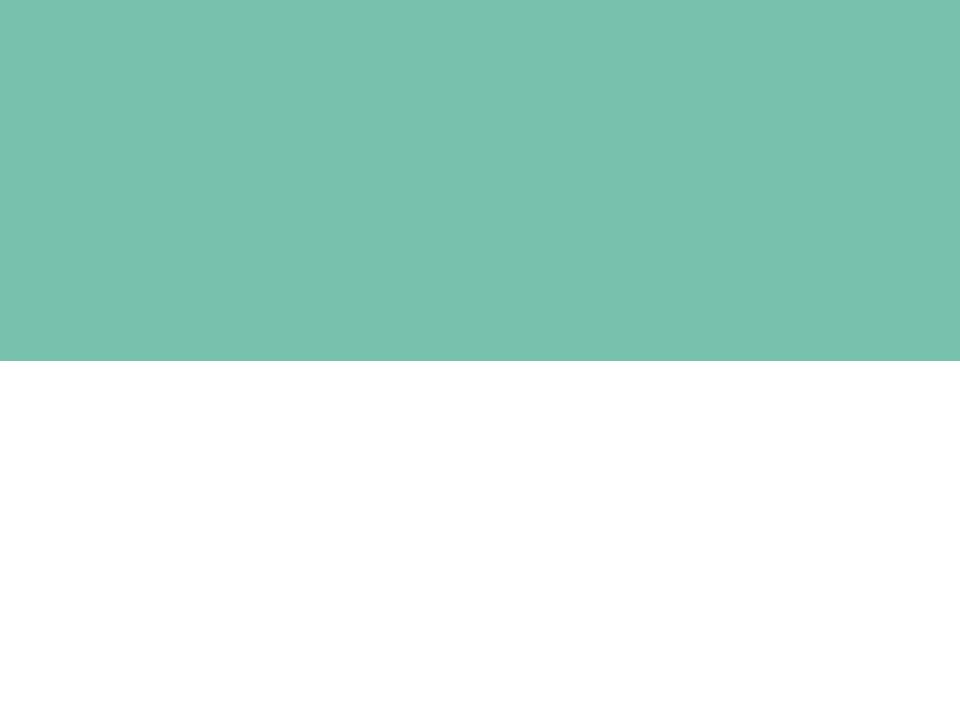
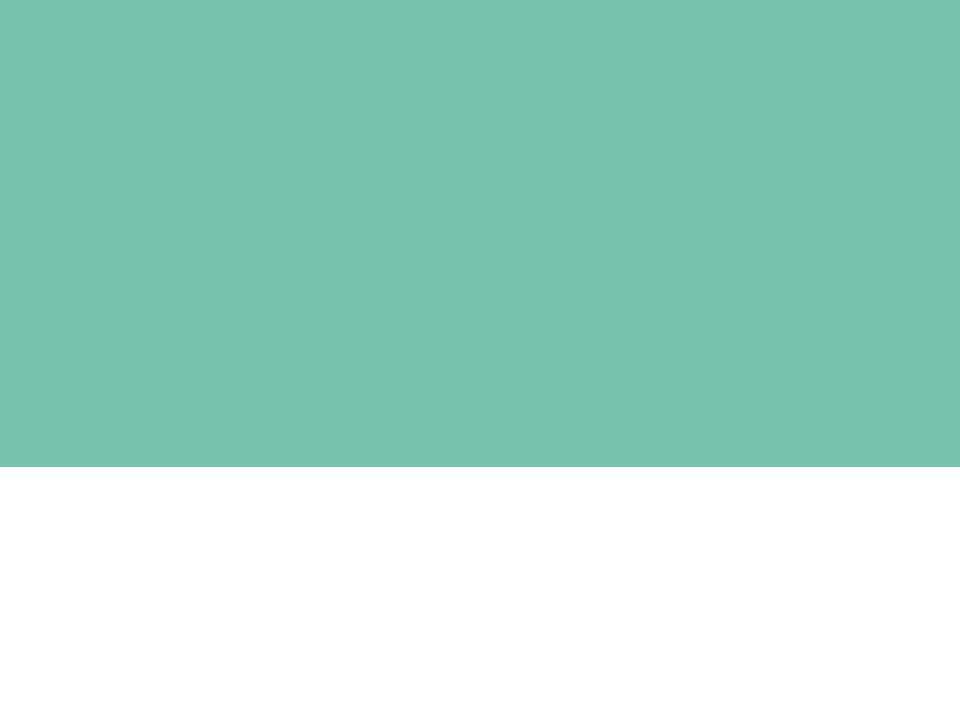
login page complete

Changed region(s): [[0.0, 0.4889, 1.0, 0.6722]]

diff --git a/src/frontend/containers/RegisterPage/index.jsx b/src/frontend/containers/RegisterPage/index.jsx
@@ -106,70 +106,79 @@ class RegisterPage extends React.Component {
     const { history } = this.props;
     return (
       <div id="register-page">
-        <h1>timbr Register Page!</h1>
-        <button
-          type="button"
-          onClick={() => history.push('/login')}
-        >
-          Already a user? Go to login
-        </button>
+        <h1 class="text-center pt-5 pb-2">timbr</h1>
+        <h3 class="text-center" style={{ color: 'white' }}><i>your plants need some love</i></h3>
+        <div className="row h-100 ml-4 mr-4">
+          <div className="col-sm-6 my-auto">
+            <div className="card h-100 border-primary">
+              <div className="card-body text-center">
+                <button
+                  type="button"
+                  onClick={() => history.push('/login')}
+                >
+                  Already a user? Go to login
+                </button>
 
-        <form
-          id="register-form"
-          onSubmit={this.handleRegister}
-        >
+                <form
+                  id="register-form"
+                  onSubmit={this.handleRegister}
+                >
 
-          <input
-            id="email"
-            type="text"
-            placeholder="Email"
-            onChange={(event) => { this.setState({ email: event.target.value }); }}
-          />
+                  <input
+                    id="email"
+                    type="text"
+                    placeholder="Email"
+                    onChange={(event) => { this.setState({ email: event.target.value }); }}
+                  />
 
-          <input
-            id="password"
-            type="password"
-            autoComplete="on"
-            placeholder="Password"
-            onChange={(event) => { this.setState({ password: event.target.value }); }}
-          />
+                  <input
+                    id="password"
+                    type="password"
+                    autoComplete="on"
+                    placeholder="Password"
+                    onChange={(event) => { this.setState({ password: event.target.value }); }}
+                  />
 
-          <input
-            id="username"
-            type="text"
-            placeholder="Username (Optional)"
-            onChange={(event) => { this.setState({ username: event.target.value }); }}
-          />
+                  <input
+                    id="username"
+                    type="text"
+                    placeholder="Username (Optional)"
+                    onChange={(event) => { this.setState({ username: event.target.value }); }}
+                  />
 
-          <button type="submit">Register</button>
-        </form>
-        <p id="error"> </p>
+                  <button type="submit">Register</button>
+                </form>
+                <p id="error"> </p>
 
-        <Modal id="can-oauth" show={this.state.isOauthModalOpen} onHide={this.closeModal}>
-          <Modal.Header closeButton>
-            <Modal.Title>Gmail Account</Modal.Title>
-          </Modal.Header>
-          <p>Looks like you're registering with a Gmail account.
-            Do you want to sign in with Google instead?
-          </p>
-          <Modal.Body>
-            <button
-              type="button"
-              onClick={this.signInWithGoogle}
-            >
-              Sign in with Google
-            </button>
-            <button
-              type="button"
-              onClick={this.closeModal}
-            >
-              Continue registering with timbr
-            </button>
-          </Modal.Body>
-          <Modal.Footer>
-            <p id="modal-error">{this.state.modalError}</p>
-          </Modal.Footer>
-        </Modal>
+                <Modal id="can-oauth" show={this.state.isOauthModalOpen} onHide={this.closeModal}>
+                  <Modal.Header closeButton>
+                    <Modal.Title>Gmail Account</Modal.Title>
+                  </Modal.Header>
+                  <p>Looks like you're registering with a Gmail account.
+                  Do you want to sign in with Google instead?
+                </p>
+                  <Modal.Body>
+                    <button
+                      type="button"
+                      onClick={this.signInWithGoogle}
+                    >
+                      Sign in with Google
+                    </button>
+                    <button
+                      type="button"
+                      onClick={this.closeModal}
+                    >
+                      Continue registering with timbr
+                  </button>
+                  </Modal.Body>
+                  <Modal.Footer>
+                    <p id="modal-error">{this.state.modalError}</p>
+                  </Modal.Footer>
+                </Modal>
+              </div>
+            </div>
+          </div>
+        </div>
       </div>
     );
   }

diff --git a/src/frontend/containers/LoginPage/index.jsx b/src/frontend/containers/LoginPage/index.jsx
@@ -10,6 +10,8 @@ import map from '../../store/map';
 import './styles.scss';
 import { loginWithTimbr, loginWithGoogle, loginWithFacebook } from '../../store/actions/account';
 import constants from '../../store/const';
+import google_logo from '../../assets/images/google_logo.png'
+import facebook_logo from '../../assets/images/facebook_logo.png'
 
 class LoginPage extends React.Component {
   constructor() {
@@ -20,6 +22,8 @@ class LoginPage extends React.Component {
     this.state = {
       email: '',
       password: '',
+      googleLogo: google_logo,
+      facebookLogo: facebook_logo,
     };
   }
 
@@ -70,33 +74,56 @@ class LoginPage extends React.Component {
     const { history } = this.props;
     return (
       <div id="login-page">
+        <h1 class="text-center pt-5 pb-2">timbr</h1>
+        <h3 class="text-center" style={{ color: 'white' }}><i>your plants need some love</i></h3>
         <div className="row h-100 ml-4 mr-4">
+        <div className="col-sm-6 my-auto">
+            <div className="card h-100 border-primary">
+              <div className="card-body text-center my-auto">
+                <h4 class="mt-2 mb-5">Sign-up</h4>
+                <p class="mt-5 mb-0 pt-2 lead text-muted">Don't have a timbr account yet?</p>
+                <p class="mt-0 mb-4 lead text-muted">Sign-up now!</p>
+                <button
+                  type="button"
+                  className="btn btn-primary"
+                  onClick={() => history.push('/register')}
+                >
+                  CREATE ACCOUNT
+                </button>
+
+              </div>
+            </div>
+          </div>
           <div className="col-sm-6 my-auto">
             <div className="card h-100 border-primary">
               <div className="card-body text-center">
-                <button
-                  id="Facebook"
-                  type="button"
-                  className="btn btn-primary"
-                  onClick={(e) => {
-                    e.preventDefault();
-                    this.handleAuth(constants.LOGIN_WITH_FACEBOOK);
-                  }}
-                >
-                  Sign in with Facebook
-                </button>
+                <h4 class="mt-2 mb-3">Login</h4>
                 <button
                   id="Google"
                   type="button"
-                  className="btn btn-primary"
+                  className="btn btn-outline-primary"
                   onClick={(e) => {
                     e.preventDefault();
                     this.handleAuth(constants.LOGIN_WITH_GOOGLE);
                   }}
                 >
+                  <img className="photo" src={this.state.googleLogo}></img>
+                  {' '}
                   Sign in with Google
                 </button>
-
+                <button
+                  id="Facebook"
+                  type="button"
+                  className="btn btn-outline-primary ml-3"
+                  onClick={(e) => {
+                    e.preventDefault();
+                    this.handleAuth(constants.LOGIN_WITH_FACEBOOK);
+                  }}
+                >
+                  <img className="photo" src={this.state.facebookLogo}></img>
+                  {' '}
+                  Sign in with Facebook
+                </button>
                 <form
                   id="login-form"
                   className="mt-3 mb-3"
@@ -126,7 +153,7 @@ class LoginPage extends React.Component {
                       />
                     </div>
 
-                    <button type="submit" className="btn btn-primary">Login</button>
+                    <button type="submit" className="btn btn-primary">LOGIN</button>
                   </fieldset>
                 </form>
                 <button
@@ -137,20 +164,6 @@ class LoginPage extends React.Component {
                   Forgot your password? Reset it here.
                 </button>
                 <p id="error" />
-              </div>
-            </div>
-          </div>
-          <div className="col-sm-6 my-auto">
-            <div className="card h-100 border-primary">
-              <div className="card-body text-center my-auto">
-                <button
-                  type="button"
-                  className="btn btn-primary"
-                  onClick={() => history.push('/register')}
-                >
-                  Not a user? Register with timbr here.
-                </button>
-
               </div>
             </div>
           </div>

diff --git a/src/frontend/containers/LoginPage/styles.scss b/src/frontend/containers/LoginPage/styles.scss
@@ -2,16 +2,17 @@
 
 #login-page {
     background-image: url('../../assets/images/background.jpg');
-    height: 100%;
+    height: 78%;
     background-position: center;
     background-repeat: no-repeat;
     background-size: cover;
-    margin-top: auto;
-    margin-bottom: auto;
-
+    
     .card {
-        min-height: 340px;
+        min-height: 368px;
         margin-top: auto;  
         margin-bottom: auto;
     }
+    .photo {
+        height: 25px;
+   }
 }

diff --git a/src/frontend/containers/RegisterPage/styles.scss b/src/frontend/containers/RegisterPage/styles.scss
@@ -2,15 +2,13 @@
 
 #register-page {
     background-image: url('../../assets/images/background.jpg');
-    height: 100%;
+    height: 78%;
     background-position: center;
     background-repeat: no-repeat;
     background-size: cover;
-    margin-top: auto;
-    margin-bottom: auto;
 
     .card {
-        min-height: 340px;
+        min-height: 368px;
         margin-top: auto;  
         margin-bottom: auto;
     }

diff --git a/src/frontend/styles.scss b/src/frontend/styles.scss
@@ -1,11 +1,11 @@
 @import "~@theme";
 
 html {
-    background: rgba(0, 0, 0, 0.05);
+    background: rgba(255, 255, 255, 0.05);
 }
 
 #app {
-    background: rgba(0, 0, 0, 0.05);
+    background: rgba(255, 255, 255, 0.05);
 }
 
 #app, html {
